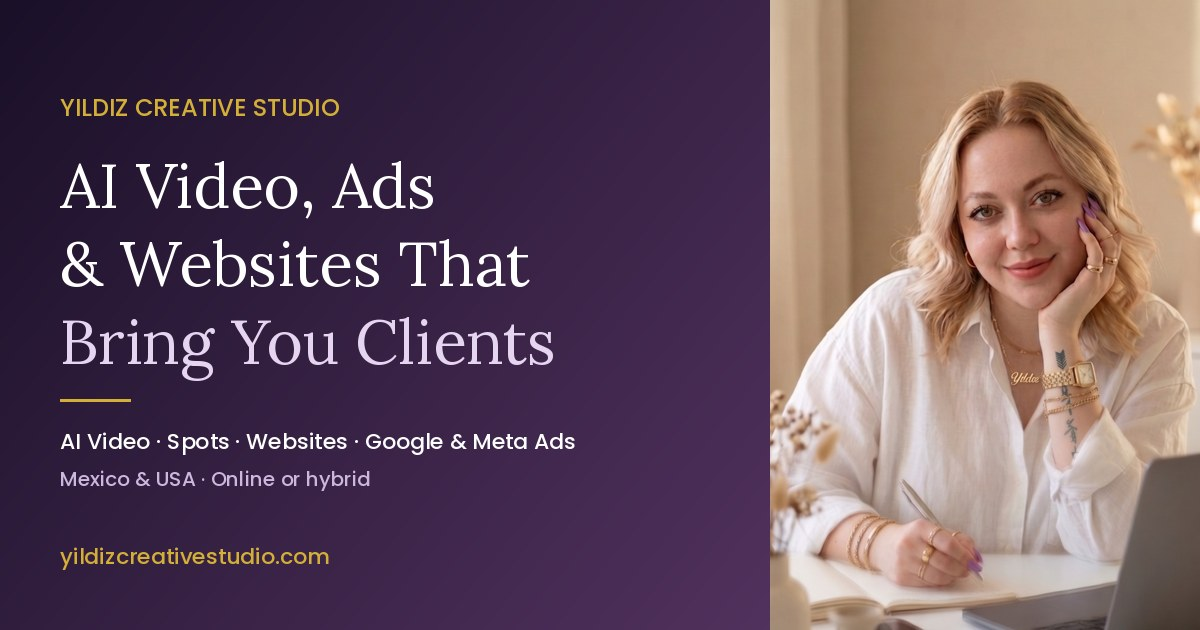
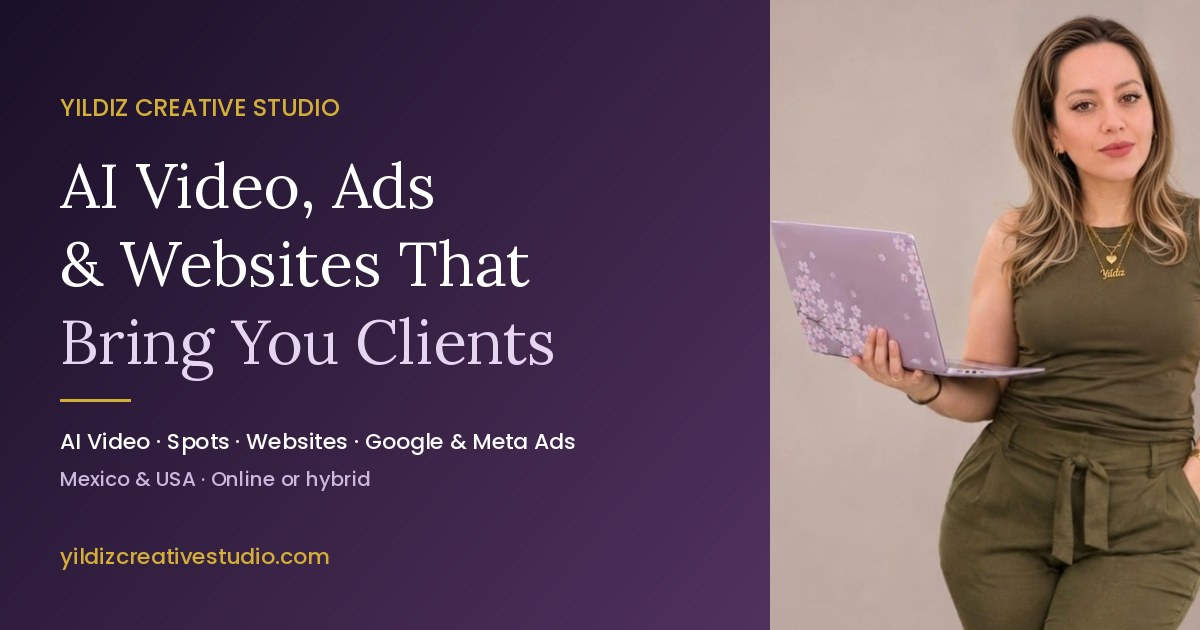
New photos: hero, founder section and share image (#14)
Claude-Session: https://claude.ai/code/session_01H8bvmuxCypPt2mRNgigpzY

diff --git a/src/app/components/Hero.tsx b/src/app/components/Hero.tsx
@@ -139,7 +139,7 @@ export function Hero() {
                 style={{ width: "clamp(280px, 38vw, 460px)", aspectRatio: "4/5", borderRadius: "4px" }}
               >
                 <ImageWithFallback
-                  src="/hero-yildiz.png"
+                  src="/hero-yesse.jpg"
                   alt="Yessenia Melo, Founder of Yildiz Creative"
                   className="w-full h-full object-cover object-top"
                 />

diff --git a/src/app/components/Founder.tsx b/src/app/components/Founder.tsx
@@ -1,7 +1,7 @@
 import { useRef } from "react";
 import { motion, useInView } from "motion/react";
 import { ImageWithFallback } from "./figma/ImageWithFallback";
-import yesseniaSrc from "../../imports/WhatsApp_Image_2026-06-07_at_3.03.28_AM__1_.jpeg";
+import yesseniaSrc from "../../imports/founder-yesse.jpg";
 import { useLang } from "../context/LanguageContext";
 import { t } from "../translations";
 
